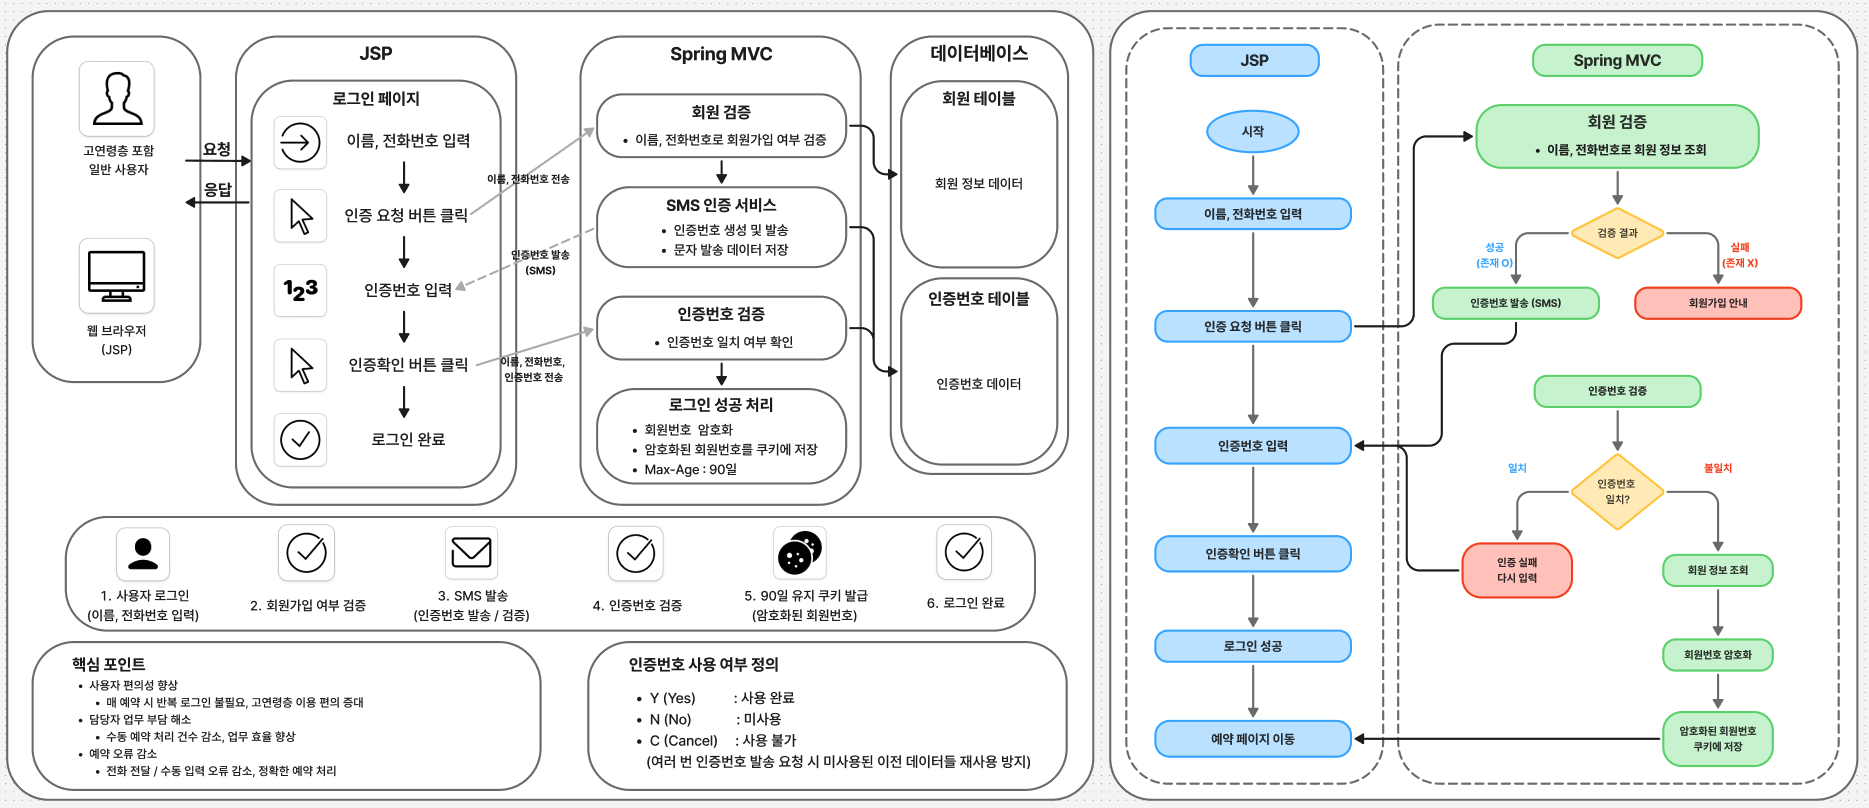
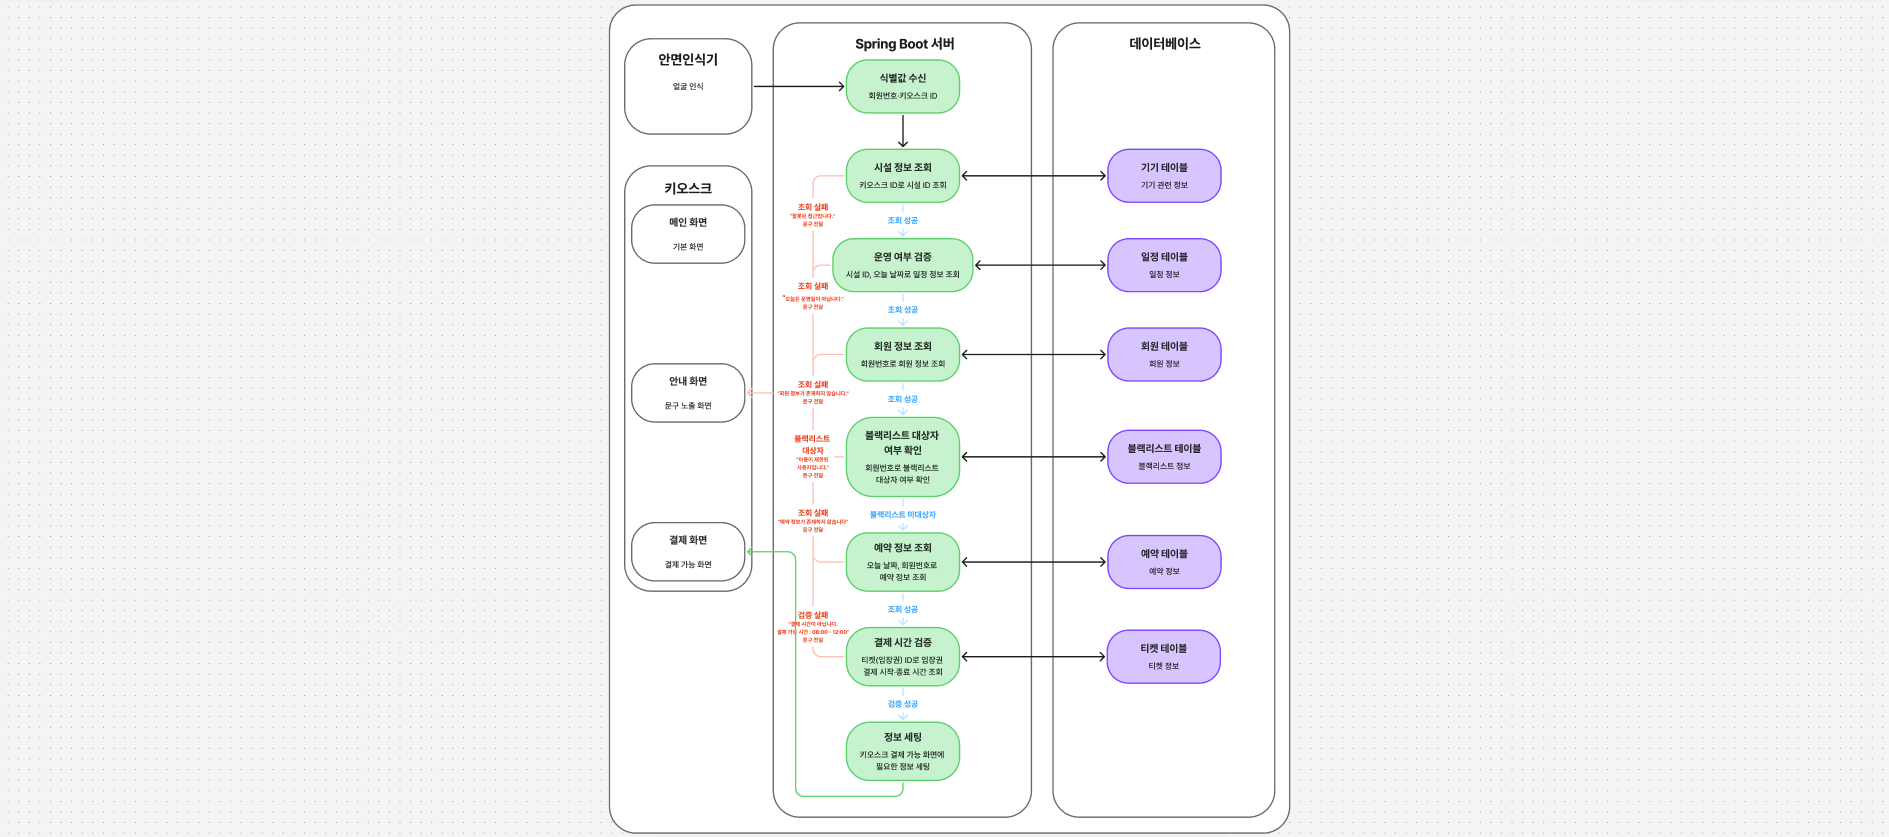
edit text

diff --git a/payload/project.ts b/payload/project.ts
@@ -37,11 +37,11 @@ const project: IProject.Payload = {
             { content: '세션 기반 로그인을 90일 유지 쿠키 방식으로 개선하여 사용자 편의성 향상' },
             {
               content:
-                '회원가입 시 사내 행정망 API 연동을 통한 할인 자격 검증 및 자동 할인 적용 로직 개발',
+                '사내 안면인식 API의 인식 결과를 회원·예약 데이터와 매칭하여 키오스크 결제 가능 여부를 검증하는 프로세스 설계·개발',
             },
             {
               content:
-                '사내 연동된 안면인식 API와 예약·결제 데이터를 매칭하여 키오스크 결제·게이트 출입을 제어하는 프로세스 설계·개발',
+                '회원가입 시 사내 행정망 API 연동을 통한 할인 자격 검증 및 자동 할인 적용 로직 개발',
             },
             { content: '키오스크, 태블릿 화면에 필요한 정보 제공 API 및 화면 개발' },
           ],
@@ -78,29 +78,65 @@ const project: IProject.Payload = {
             },
           ],
         },
+        // {
+        //   subject: '세션 기반 로그인을 90일 유지 쿠키 방식으로 개선',
+        //   images: ['https://dksgyrud1349.github.io/portfolio/asset/cheonan-parkgolf/diagram2.png'],
+        //   sections: [
+        //     {
+        //       title: '프로젝트 배경 및 핵심 과제',
+        //       items: [
+        //         '**[문제 인식]**: 기존 세션 기반 로그인은 이름·전화번호 입력 후 인증번호를 문자로 확인하여 입력하는 방식이었는데, 주 이용자의 연령대가 높아 매 예약 시마다 로그인 자체를 힘들어하는 상황 발생',
+        //         '**[운영 문제 발생]**: 로그인을 어려워하는 어르신들이 시설에 직접 전화하여 담당자가 관리자 페이지에서 수동으로 예약을 처리하는 경우가 많아졌고, 담당자 업무 부담이 증가하는 것뿐만 아니라 이름이나 전화번호를 잘못 전달하거나 잘못 입력하여 다른 사람으로 예약이 되는 오류도 발생',
+        //         '**[해결 과제]**: 로그인 불편을 줄여 사용자가 직접 예약할 수 있는 환경을 만들고, 담당자의 수동 예약 처리 부담을 해소하는 구조 필요',
+        //       ],
+        //     },
+        //     {
+        //       title: '기술적 해결 과제 및 구현',
+        //       items: [
+        //         '**[쿠키 방식 도입]**: 한 번 로그인하면 암호화된 회원번호를 쿠키에 저장하여 90일간 로그인 상태가 유지되도록 세션 기반 로그인을 쿠키 기반으로 개선. 이를 통해 매 예약 시마다 반복되는 로그인 절차를 제거',
+        //       ],
+        //     },
+        //     {
+        //       title: '성과 및 인사이트',
+        //       items: [
+        //         '**[사용자 편의성 향상]**: 반복 로그인 불편이 해소되어 어르신들이 직접 예약할 수 있는 환경 마련',
+        //         '**[담당자 업무 부담 해소]**: 수동 예약 처리 건수가 줄어들고, 잘못된 정보 입력으로 인한 예약 오류 발생 가능성 감소',
+        //       ],
+        //     },
+        //   ],
+        // },
         {
-          subject: '세션 기반 로그인을 90일 유지 쿠키 방식으로 개선',
+          subject:
+            '사내 안면인식 API의 인식 결과를 회원·예약 데이터와 매칭하여 키오스크 결제 가능 여부를 검증하는 프로세스 설계·개발',
           images: ['https://dksgyrud1349.github.io/portfolio/asset/cheonan-parkgolf/diagram2.png'],
           sections: [
             {
               title: '프로젝트 배경 및 핵심 과제',
               items: [
-                '**[문제 인식]**: 기존 세션 기반 로그인은 이름·전화번호 입력 후 인증번호를 문자로 확인하여 입력하는 방식이었는데, 주 이용자의 연령대가 높아 매 예약 시마다 로그인 자체를 힘들어하는 상황 발생',
-                '**[운영 문제 발생]**: 로그인을 어려워하는 어르신들이 시설에 직접 전화하여 담당자가 관리자 페이지에서 수동으로 예약을 처리하는 경우가 많아졌고, 담당자 업무 부담이 증가하는 것뿐만 아니라 이름이나 전화번호를 잘못 전달하거나 잘못 입력하여 다른 사람으로 예약이 되는 오류도 발생',
-                '**[해결 과제]**: 로그인 불편을 줄여 사용자가 직접 예약할 수 있는 환경을 만들고, 담당자의 수동 예약 처리 부담을 해소하는 구조 필요',
+                '**[요구사항 파악]**: 기반이 된 여주 파크골프장과는 다르게 회원 여부와 관계없이 예약이 필수인 운영 방식',
+                '**[문제 예상]**: 키오스크 결제 시 회원 식별 후 해당 회원의 예약 존재 여부까지 검증해야 하는 상황',
+                '**[해결 과제]**: 안면인식 시 시설 운영·회원·예약 여부 등을 검증 -> 결제를 진행하는 프로세스 설계 필요',
+                '**[예외 상황 안내]**: 미운영일, 회원 정보 없음, 블랙리스트 대상자, 예약 없음 외 등 예외 상황에 대한 안내 처리 필요',
               ],
             },
             {
               title: '기술적 해결 과제 및 구현',
               items: [
-                '**[쿠키 방식 도입]**: 한 번 로그인하면 암호화된 회원번호를 쿠키에 저장하여 90일간 로그인 상태가 유지되도록 세션 기반 로그인을 쿠키 기반으로 개선. 이를 통해 매 예약 시마다 반복되는 로그인 절차를 제거',
+                '**[식별값 수신]**: 안면인식 시 사내 안면인식 API로부터 인식 결과(회원번호, 키오스크 ID 등)를 수신',
+                '**[시설 검증]**: 키오스크 ID로 유효한 시설인지 검증',
+                '**[운영 일정 검증]**: 식별된 시설을 기준으로 오늘 날짜에 운영 일정이 등록되어 있는지 확인',
+                '**[블랙리스트 검증]**: 여주에 구축된 블랙리스트 검증 로직을 천안에 맞게 커스텀하여 블랙리스트 대상자 여부 확인',
+                '**[예약 검증]**: 회원번호와 오늘 날짜를 기준으로 예약 데이터를 조회하여 예약 여부 확인',
+                '**[결제 시간 검증]**: 예약이 존재하는 경우 예약한 입장권이 현재 시간에 결제 가능한지 검증',
+                '**[예외 상황 안내 처리]**: **"운영일이 아닙니다"**, **"회원 정보가 존재하지 않습니다"**, **"이용이 제한된 사용자입니다"**, **"예약 정보가 존재하지 않습니다"**, **"결제 가능 시간이 아닙니다"** 등 단계별 검증 실패 안내 문구를 키오스크 화면에 표시하여 이용자가 어떤 이유로 결제가 불가능한지 쉽게 파악할 수 있도록 처리',
               ],
             },
             {
               title: '성과 및 인사이트',
               items: [
-                '**[사용자 편의성 향상]**: 반복 로그인 불편이 해소되어 어르신들이 직접 예약할 수 있는 환경 마련',
-                '**[담당자 업무 부담 해소]**: 수동 예약 처리 건수가 줄어들고, 잘못된 정보 입력으로 인한 예약 오류 발생 가능성 감소',
+                '**[운영 방식 차이 대응]**: 예약이 필수인 천안의 운영 방식에 맞춰, 안면인식 기반 검증 구조 설계·개발',
+                '**[이용 편의성 향상]**: 별도의 입력이나 QR 제시 없이 안면인식만으로 예약·결제 확인이 가능해져 이용 편의성 향상',
+                '**[단계별 예외 처리 경험 확보]**: 운영일·블랙리스트·예약·결제 시간이라는 서로 다른 성격의 검증을 독립적인 단계로 분리 설계하여, 각 단계의 실패 원인을 명확히 구분해 안내하는 구조 설계 경험 확보. 이용자가 안내 문구만으로 어느 단계에서 막혔는지 쉽게 파악할 수 있어 현장 문의 대응 부담 감소',
               ],
             },
           ],

diff --git a/payload/experience.ts b/payload/experience.ts
@@ -43,7 +43,7 @@ const experience: IExperience.Payload = {
               text: '천안 유관순 파크골프장 예약·결제·입장 통합 시스템 구축 및 운영',
               children: [
                 '요구사항 분석부터 설계·개발·운영까지 전 과정 수행',
-                '고연령층 이용자를 고려한 입장권 선점 구조와 안면인식 기반 출입 제어 프로세스 설계·개발',
+                '고연령층 이용자를 고려한 입장권 선점 구조와 안면인식 기반 결제 가능 여부 검증 프로세스 설계·개발',
               ],
             },
             {

diff --git a/docs/_next/static/BYol9EkoPGQkD54uheleb/_buildManifest.js b/docs/_next/static/BYol9EkoPGQkD54uheleb/_buildManifest.js
@@ -1,0 +1,1 @@
+self.__BUILD_MANIFEST = {__rewrites:{beforeFiles:[],afterFiles:[],fallback:[]},"/":["static\u002Fchunks\u002Fa9a7754c.44c40eb5bedb119b505c.js","static\u002Fchunks\u002Fcb1608f2.84009c79d2301bc2083a.js","static\u002Fchunks\u002F0f1ac474.faa7d793a4cd8646805a.js","static\u002Fchunks\u002Fpages\u002Findex-a2b2723e8783126deeb8.js"],"/_error":["static\u002Fchunks\u002Fpages\u002F_error-119c2831323ce8956f40.js"],sortedPages:["\u002F","\u002F_app","\u002F_error"]};self.__BUILD_MANIFEST_CB && self.__BUILD_MANIFEST_CB()

diff --git a/docs/_next/static/development/_buildManifest.js b/docs/_next/static/development/_buildManifest.js
@@ -1,0 +1,1 @@
+self.__BUILD_MANIFEST = {__rewrites:{beforeFiles:[],afterFiles:[],fallback:[]},"/":["static\u002Fchunks\u002Fpages\u002Findex.js"],"/_error":["static\u002Fchunks\u002Fpages\u002F_error.js"],sortedPages:["\u002F","\u002F_app","\u002F_error"]};self.__BUILD_MANIFEST_CB && self.__BUILD_MANIFEST_CB()

diff --git a/docs/_next/static/development/_ssgManifest.js b/docs/_next/static/development/_ssgManifest.js
@@ -1,0 +1,1 @@
+self.__SSG_MANIFEST=new Set;self.__SSG_MANIFEST_CB&&self.__SSG_MANIFEST_CB()